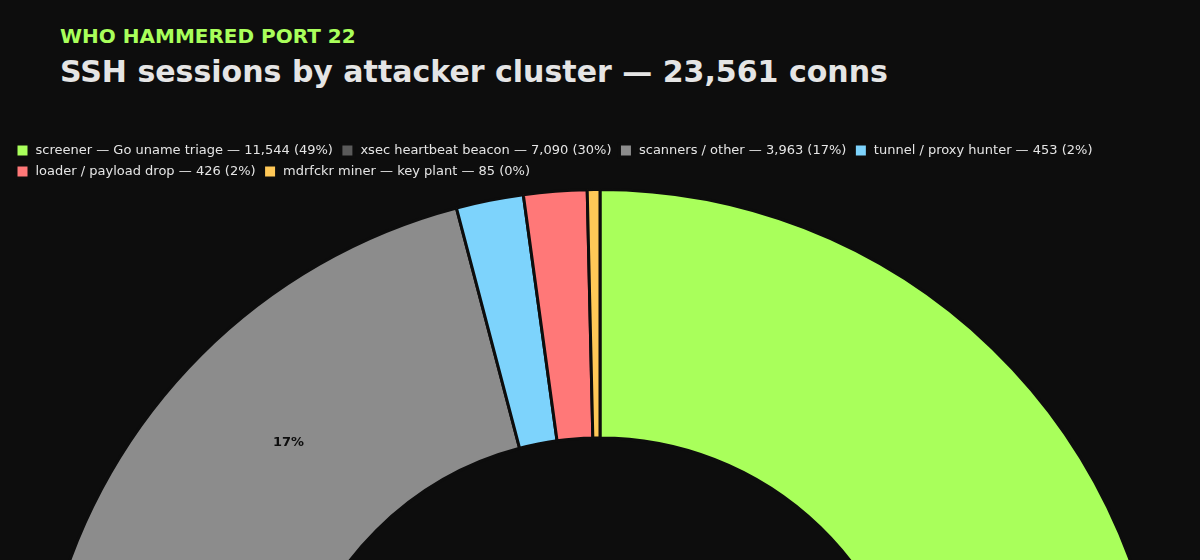
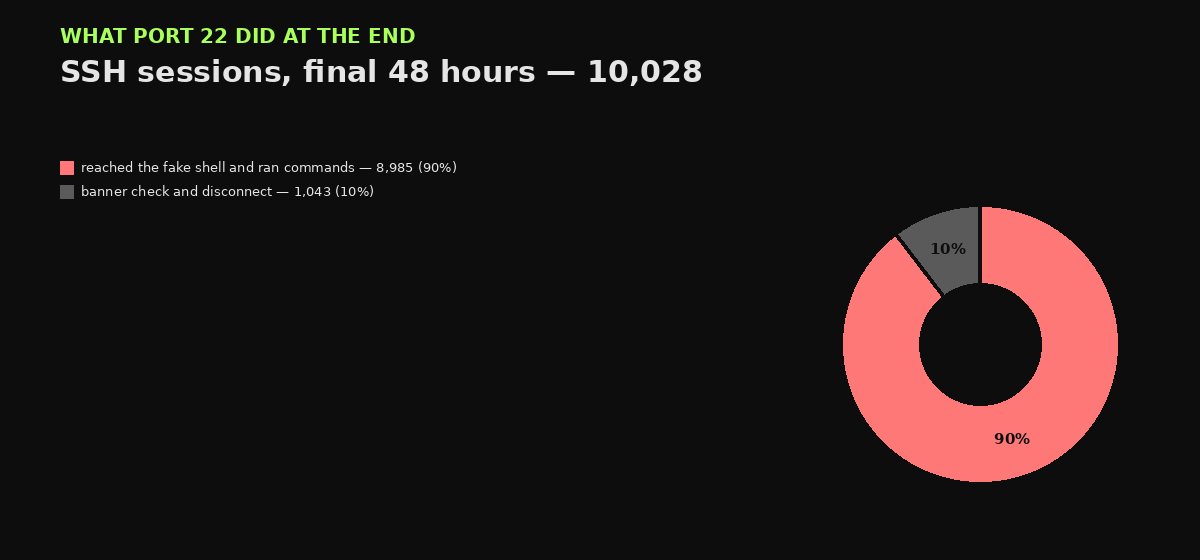
honeypot draft: refresh to the closed run (Sep 7-13) + regenerate charts
- Final numbers: 51,561 web req / 805 IPs, 29,481 SSH conns, 1,720 WP login
  attempts, xmlrpc 35,758 (69% of web), 110 miner key-plants
- Add the closing findings: passive->active flip on :22 (8,985 of 10,028
  sessions ran commands in the last 48h), Go brute-force botnet, the
  multi-arch miner+worm family, the 82% collapse of the web wave
- Bait beat sharpened: 0/913 parsed attempts tried the contextual password,
  admin hit 10x in the whole run, closest miss 3 keystrokes short; add the
  wireframe frontier-model baseline (10 guesses, 0 correct)
- New 'What did not happen' verdict section + VirusTotal two-class finding
- chart2/3/4 regenerated from the closing cut (chart1 stays the 5-day
  mid-run timeline: extending it needs hourly logs that died with the box)
- Draft stays draft:true, unpushed to _posts, run 2 never named

diff --git a/assets/img/posts/chart3-web-classes.html b/assets/img/posts/chart3-web-classes.html
@@ -4,13 +4,13 @@
 <style>body{margin:0;background:#0d0d0d}canvas{display:block}</style></head>
 <body>
 <div style="height:128px;padding:24px 60px 0 60px;background:#0d0d0d;box-sizing:border-box">
-  <div style="color:#a9ff5b;font:700 20px 'DejaVu Sans'">WHAT THE WEB ATTACKERS DID</div>
-  <div style="color:#e5e5e5;font:700 30px 'DejaVu Sans';margin-top:6px">Requests by target — 45,023 total</div>
+  <div style="color:#a9ff5b;font:700 20px 'DejaVu Sans'">WHAT THE WEB ATTACKERS WANTED</div>
+  <div style="color:#e5e5e5;font:700 30px 'DejaVu Sans';margin-top:6px">Requests by target — 51,561 total</div>
 </div>
 <canvas id="c" width="1200" height="432"></canvas><script>
 Chart.defaults.font.family = 'DejaVu Sans';
 Chart.defaults.color = '#8c8c8c';
 Chart.register(ChartDataLabels);
-const cfg = {type:'doughnut',data:{labels:["XML-RPC (automation endpoint) \u2014 32,826 (73%)", "storefront pages + assets \u2014 6,448 (14%)", "other / misc \u2014 3,559 (8%)", "wp-login (admin login) \u2014 1,482 (3%)", "wp-admin (dashboard) \u2014 391 (1%)", "REST API \u2014 255 (1%)", "author enumeration \u2014 62 (0%)"],datasets:[{data:[32826, 6448, 3559, 1482, 391, 255, 62],backgroundColor:["#ffc857", "#a9ff5b", "#8c8c8c", "#ff7878", "#7dd3fc", "#5a5a5a", "#b388ff"],borderColor:'#0d0d0d',borderWidth:3,hoverOffset:6}]},options:{cutout:'56%',layout:{padding:{top:8,right:8,bottom:8,left:8}},plugins:{legend:{position:'top',align:'start',labels:{boxWidth:13,padding:8,font:{size:13},color:'#e5e5e5'}},datalabels:{color:'#0d0d0d',font:{size:13,weight:'bold'},formatter:function(v,ctx){const t=ctx.chart.data.datasets[0].data.reduce((a,b)=>a+b,0);const p=v/t*100;return p>=6?p.toFixed(0)+'%':'';}}}}};
+const cfg = {type:'doughnut',data:{labels:["XML-RPC (automation endpoint) \u2014 35,758 (69%)", "everything else: storefront, login, admin, API \u2014 15,803 (31%)"],datasets:[{data:[35758, 15803],backgroundColor:["#ffc857", "#8c8c8c"],borderColor:'#0d0d0d',borderWidth:3,hoverOffset:6}]},options:{cutout:'56%',layout:{padding:{top:8,right:8,bottom:8,left:8}},plugins:{legend:{position:'top',align:'start',labels:{boxWidth:13,padding:8,font:{size:13},color:'#e5e5e5'}},datalabels:{color:'#0d0d0d',font:{size:15,weight:'bold'},formatter:function(v,ctx){const t=ctx.chart.data.datasets[0].data.reduce((a,b)=>a+b,0);const p=v/t*100;return p>=6?p.toFixed(0)+'%':'';}}}}};
 new Chart(document.getElementById('c'), cfg);
 </script></body></html>

diff --git a/assets/img/posts/chart2-ssh-clusters.html b/assets/img/posts/chart2-ssh-clusters.html
@@ -4,13 +4,13 @@
 <style>body{margin:0;background:#0d0d0d}canvas{display:block}</style></head>
 <body>
 <div style="height:128px;padding:24px 60px 0 60px;background:#0d0d0d;box-sizing:border-box">
-  <div style="color:#a9ff5b;font:700 20px 'DejaVu Sans'">WHO HAMMERED PORT 22</div>
-  <div style="color:#e5e5e5;font:700 30px 'DejaVu Sans';margin-top:6px">SSH sessions by attacker cluster — 23,561 conns</div>
+  <div style="color:#a9ff5b;font:700 20px 'DejaVu Sans'">WHAT PORT 22 DID AT THE END</div>
+  <div style="color:#e5e5e5;font:700 30px 'DejaVu Sans';margin-top:6px">SSH sessions, final 48 hours — 10,028</div>
 </div>
 <canvas id="c" width="1200" height="432"></canvas><script>
 Chart.defaults.font.family = 'DejaVu Sans';
 Chart.defaults.color = '#8c8c8c';
 Chart.register(ChartDataLabels);
-const cfg = {type:'doughnut',data:{labels:["screener \u2014 Go uname triage \u2014 11,544 (49%)", "xsec heartbeat beacon \u2014 7,090 (30%)", "scanners / other \u2014 3,963 (17%)", "tunnel / proxy hunter \u2014 453 (2%)", "loader / payload drop \u2014 426 (2%)", "mdrfckr miner \u2014 key plant \u2014 85 (0%)"],datasets:[{data:[11544, 7090, 3963, 453, 426, 85],backgroundColor:["#a9ff5b", "#5a5a5a", "#8c8c8c", "#7dd3fc", "#ff7878", "#ffc857"],borderColor:'#0d0d0d',borderWidth:3,hoverOffset:6}]},options:{cutout:'56%',layout:{padding:{top:8,right:8,bottom:8,left:8}},plugins:{legend:{position:'top',align:'start',labels:{boxWidth:13,padding:8,font:{size:13},color:'#e5e5e5'}},datalabels:{color:'#0d0d0d',font:{size:13,weight:'bold'},formatter:function(v,ctx){const t=ctx.chart.data.datasets[0].data.reduce((a,b)=>a+b,0);const p=v/t*100;return p>=6?p.toFixed(0)+'%':'';}}}}};
+const cfg = {type:'doughnut',data:{labels:["reached the fake shell and ran commands \u2014 8,985 (90%)", "banner check and disconnect \u2014 1,043 (10%)"],datasets:[{data:[8985, 1043],backgroundColor:["#ff7878", "#5a5a5a"],borderColor:'#0d0d0d',borderWidth:3,hoverOffset:6}]},options:{cutout:'56%',layout:{padding:{top:8,right:8,bottom:8,left:8}},plugins:{legend:{position:'top',align:'start',labels:{boxWidth:13,padding:8,font:{size:13},color:'#e5e5e5'}},datalabels:{color:'#0d0d0d',font:{size:15,weight:'bold'},formatter:function(v,ctx){const t=ctx.chart.data.datasets[0].data.reduce((a,b)=>a+b,0);const p=v/t*100;return p>=6?p.toFixed(0)+'%':'';}}}}};
 new Chart(document.getElementById('c'), cfg);
 </script></body></html>

diff --git a/assets/img/posts/chart4-usernames.html b/assets/img/posts/chart4-usernames.html
@@ -4,13 +4,13 @@
 <style>body{margin:0;background:#0d0d0d}canvas{display:block}</style></head>
 <body>
 <div style="height:128px;padding:24px 60px 0 60px;background:#0d0d0d;box-sizing:border-box">
-  <div style="color:#a9ff5b;font:700 20px 'DejaVu Sans'">THE USERNAMES THEY GUESSED</div>
-  <div style="color:#e5e5e5;font:700 30px 'DejaVu Sans';margin-top:6px">Top logins tried on SSH</div>
+  <div style="color:#a9ff5b;font:700 20px 'DejaVu Sans'">THE BAIT NOBODY GUESSED</div>
+  <div style="color:#e5e5e5;font:700 30px 'DejaVu Sans';margin-top:6px">Login attempts at close — 913 pairs, 0 hits</div>
 </div>
 <canvas id="c" width="1200" height="432"></canvas><script>
 Chart.defaults.font.family = 'DejaVu Sans';
 Chart.defaults.color = '#8c8c8c';
 Chart.register(ChartDataLabels);
-const cfg = {type:'doughnut',data:{labels:["root \u2014 12,066 (57%)", "ubuntu \u2014 1,655 (8%)", "admin \u2014 1,035 (5%)", "postgres \u2014 281 (1%)", "barsha \u2014 251 (1%)", "all other usernames \u2014 5,942 (28%)"],datasets:[{data:[12066, 1655, 1035, 281, 251, 5942],backgroundColor:["#ff7878", "#ffc857", "#7dd3fc", "#b388ff", "#a9ff5b", "#8c8c8c"],borderColor:'#0d0d0d',borderWidth:3,hoverOffset:6}]},options:{cutout:'56%',layout:{padding:{top:8,right:8,bottom:8,left:8}},plugins:{legend:{position:'top',align:'start',labels:{boxWidth:13,padding:8,font:{size:13},color:'#e5e5e5'}},datalabels:{color:'#0d0d0d',font:{size:13,weight:'bold'},formatter:function(v,ctx){const t=ctx.chart.data.datasets[0].data.reduce((a,b)=>a+b,0);const p=v/t*100;return p>=5?p.toFixed(0)+'%':'';}}}}};
+const cfg = {type:'doughnut',data:{labels:["brand / name / year family \u2014 543 (59%)", "everything else \u2014 370 (41%)"],datasets:[{data:[543, 370],backgroundColor:["#a9ff5b", "#8c8c8c"],borderColor:'#0d0d0d',borderWidth:3,hoverOffset:6}]},options:{cutout:'56%',layout:{padding:{top:8,right:8,bottom:8,left:8}},plugins:{legend:{position:'top',align:'start',labels:{boxWidth:13,padding:8,font:{size:13},color:'#e5e5e5'}},datalabels:{color:'#0d0d0d',font:{size:15,weight:'bold'},formatter:function(v,ctx){const t=ctx.chart.data.datasets[0].data.reduce((a,b)=>a+b,0);const p=v/t*100;return p>=6?p.toFixed(0)+'%':'';}}}}};
 new Chart(document.getElementById('c'), cfg);
 </script></body></html>

diff --git a/_drafts/2026-09-06-decoy-boutique.md b/_drafts/2026-09-06-decoy-boutique.md
@@ -7,13 +7,13 @@ description: "Building a fake WordPress boutique to test a simple bet: bots atta
 draft: true
 ---
 
-<!-- DRAFT-ONLY NOTES (delete before publish): publish AFTER the run completes. Never name the live lure host/IP/domain while the experiment runs — refer to it generically ("a fresh boutique domain"). Project post: publish + banner only (no audio, no LinkedIn). NUMBERS CURRENT AS OF 2026-09-11 (Day 5 of the run); the final write-up replaces every count below with the full-run totals. -->
+<!-- DRAFT-ONLY NOTES (delete before publish): the run is CLOSED — Sep 7 → Sep 13, 2026, seven days. Every number below is the closing cut (taken Sep 12, 15:53 UTC, the last report before the box was snapshotted); chart 1 is the one exception and stays a mid-run snapshot of the first five days, because extending it needs hourly logs that died with the box. Never name the host/IP/domain of a *live* lure — Run 2 is still running. Project post: publish + banner only (no audio, no LinkedIn). -->
 
 > **TL;DR**
 > - The bet: opportunistic attack bots are blind to who the target is. They attack services, not storefronts — a fake boutique domain should get the same pre-auth traffic as any public IP.
 > - The archetype: the believable 2026 victim runs a current WordPress core with neglected plugins and a weak admin password. Not a 2019 core. The guides are wrong.
 > - What I built: a decoy home-textiles store (real WordPress, real WooCommerce, ten products) on a disposable droplet, wrapped in watchers, with one deliberate weak point as the bait.
-> - Honest expectation: a month of data, probably zero "smart" attackers, and that null result is itself the finding.
+> - The result after seven days: 51,561 web requests and 29,481 SSH connections from 805 addresses, zero successful compromises, zero attackers who read the store, and the guessable admin password never guessed.
 
 ## Eleven thousand holes, six in the core
 
@@ -55,26 +55,32 @@ The storefront is the bait; it is not the honeypot. The honeypot is the environm
 - Outbound connections are blocked — an attacker who gets in can attempt downloads and persistence, and every attempt is recorded, but the box cannot be used to attack anyone else.
 - Evidence ships off the box daily. The box is disposable; the data is not.
 
-<!-- DRAFT NOTE (Gabriel, 2026-09-07): charts in the next section are native mermaid pies (theme-rendered, no CDN — Chirpy renders ```mermaid blocks automatically). A full interactive Chart.js version of the same data exists alongside (sources: assets/img/posts/chart1..4 .png + .html, CDN refs, validated in headless Chromium 2026-09-11). BEFORE publishing, compare mermaid vs Chart.js rendering on the live post and pick the final one; that choice also affects the LinkedIn card if we screenshot a ChartJS chart. Numbers refreshed 2026-09-11 (Day 5); the final run replaces them at publish. -->
+<!-- DRAFT NOTE (Gabriel, 2026-09-07): charts in the next section are native mermaid pies (theme-rendered, no CDN — Chirpy renders ```mermaid blocks automatically). A full interactive Chart.js version of the same data exists alongside (sources: assets/img/posts/chart1..4 .png + .html, CDN refs). BEFORE publishing, compare mermaid vs Chart.js rendering on the live post and pick the final one; that choice also affects the LinkedIn card if we screenshot a ChartJS chart. Status: chart1 = hourly timeline, mid-run cut (first five days) — that image could not be extended to the finish, the closing logs died with the box. chart2/3/4 = regenerated from the closing numbers (Sep 13 cut). -->
 
 ## The cast
 
-Somewhere in the noise, faces appear. Not because anyone targeted the shop — nobody did — but because the machines attacking it carry habits, and after five days the habits sort into characters.
+Somewhere in the noise, faces appear. Not because anyone targeted the shop — nobody did — but because the machines attacking it carry habits, and over seven days the habits sort into characters.
 
 - **The Screener.** Runs one command — `uname`, the Linux equivalent of "what are you?" — against every host it can reach, then leaves. 11,544 of the connections on port 22 were this machine taking inventory. It is the census taker of the internet.
 - **The Beacon.** Logs in and types `echo xsec` — a heartbeat, checking that the shell works and phoning home. 7,090 visits. It never looked at the shop.
-- **The Miner.** The most interesting one, because it is a real, documented criminal operation. It plants an SSH key so it can come back, and leaves a CPU check behind. Its key has not changed since 2018. Eight years, same trick, no arrests.
-- **The Tunnel Hunters.** They want neither data nor money. They want the box as a relay — a hop that hides where their traffic really comes from. That is how an innocent server becomes an accessory.
+- **The Miner.** The most interesting one, because it is a real, documented criminal operation. It plants an SSH key so it can come back, and leaves a CPU check behind. Its key has not changed since 2018. Eight years, same trick, no arrests. By the end it had planted that key 110 times.
+- **The Tunnel Hunters.** They want neither data nor money. They want the box as a relay — a hop that hides where their traffic really comes from. Seven separate attempts to open a tunnel to the same outside address. That is how an innocent server becomes an accessory.
 - **The XML-RPC Flood.** Wave after wave against WordPress's automation endpoint, each burst from a freshly rented server, gone before the invoice arrives.
-- **The Login Stuffer.** Drips usernames against the login page for hours, rotating browsers to look human, sitting behind a proxy so the real origin never shows. It tried over a thousand times and never read a single product page.
+- **The Login Stuffer.** Drips usernames against the login page for hours, rotating browsers to look human, sitting behind a proxy so the real origin never shows. One of them posted 81 username-and-password pairs lifted from a real breach — a Thai gambling site's leak, pointed at a home-textiles store in Oregon. It never read a single product page.
 - **The Backdoor Artist.** The only one with craft: it checks whether the shell it landed in is real before installing a fake one of its own. On a real host that would matter. Here, it verified a shell that does not exist.
 - **The Shopper.** The one I cannot fully explain. It browsed the catalog like a customer — products, cart, checkout, even "forgot my password." Every other visitor hammered the plumbing; this one behaved like it wanted to buy something. Best guess: an automated agent pacing itself like a human. I cannot prove it yet. It is the closest anything came to noticing what the shop was for.
+
+And one that is not a character but a change in the weather. For the first four days port 22 was passive: scan, run `uname`, hang up. In the closing 48 hours that reversed — 8,985 of 10,028 sessions stayed long enough to type commands, a new brute-force botnet arrived with sixteen addresses out of one subnet, and a multi-architecture malware family started uploading itself in five builds at once. The targets never changed; only how hard they pushed.
+
+![SSH sessions, final 48 hours — 8,985 of 10,028 reached the fake shell and ran commands](/assets/img/posts/chart2-ssh-clusters.png)
+
+*The mix flipped at the end: for the first four days most of port 22 was inventory-taking; in the closing 48 hours nine in ten sessions stayed to run commands.*
 
 Nobody read the store. Every credential tried against the login was built from the domain name or lifted from a leaked list — never from the boutique's own story. The interesting tail stayed empty.
 
 ## The noise, in numbers
 
-Five days in, the commodity noise has a shape: 23,561 SSH connections and 45,023 web requests from 711 IPs. Mid-run preview numbers — the full run replaces them at publish.
+Seven days in, the commodity noise has a shape: **51,561 web requests and 29,481 SSH connections from 805 addresses.** The volume arrived in waves, not a tide — a launch burst, botnet sweeps, a credential-stuffing run that never quite stopped, and then, before the end, the wave simply died: the web flood fell from 12,896 requests in a day to 2,222, an 82% collapse, with no change on my side.
 
 The SSH noise was not a crowd — it was clusters with different goals, from mass host-triage to a miner planting its persistence key:
 
@@ -89,40 +95,47 @@ pie showData
     "mdrfckr miner — key plant" : 85
 ```
 
-*The screener triages every host it finds; the miner's key has been unchanged since 2018.*
-
-The volume arrived in waves, not as a tide — a launch burst, botnet sweeps, then a credential-stuffing run that never quite stopped:
+*The screener triages every host it finds; the miner's key has been unchanged since 2018. Cut at day five — the closing cluster split died with the box.*
 
 ![Web and SSH traffic, hour by hour (UTC) — first five days](/assets/img/posts/chart1-volume-timeline.png)
 
-*Static render of the first five days (double axis: web left, SSH right) — mermaid has no time-series charts, so the timeline stays as an image (a Chart.js interactive version exists if we want it live).*
+*Static render of the first five days (double axis: web left, SSH right) — mermaid has no time-series charts, so the timeline stays as an image. This is the one chart that could not be extended to the finish: it needs hour-by-hour logs, and the box's were destroyed with the box.*
 
-Most of those web requests were not for the store at all. Break them down by target and the picture is lopsided in a way that makes the bet look very safe:
+Most of those web requests were not for the store at all. Break them down and the picture is lopsided in a way that makes the bet look very safe:
 
 ```mermaid
 pie showData
-    title Web requests by target — first five days
-    "XML-RPC (automation endpoint)" : 32826
-    "storefront pages + assets" : 6448
-    "other / misc" : 3559
-    "wp-login (admin login)" : 1482
-    "wp-admin (dashboard)" : 391
-    "REST API" : 255
-    "author enumeration" : 62
+    title Web requests by target — full run
+    "XML-RPC (automation endpoint)" : 35758
+    "everything else: storefront, login, admin, API" : 15803
 ```
 
-Nearly three-quarters of everything that hit the box went to XML-RPC — the automation endpoint WordPress exposes for tooling and pingbacks. Not the catalog, not the products, not the boutique. The admin login, the dashboard, and the API took most of the rest. The part of the box that looks like a shop drew around one in seven requests.
+![Requests by target — 51,561 total](/assets/img/posts/chart3-web-classes.png)
 
-## Five days in
+*Nearly seven in ten of everything that hit the box went to XML-RPC — the automation endpoint WordPress exposes for tooling and pingbacks. Not the catalog, not the products, not the boutique. Through the first five days — the last cut where the classes were counted separately — around one request in seven touched the part of the site that looks like a shop.*
 
-The run is live — day five. The commodity noise arrived on schedule: waves of SSH triage, XML-RPC floods from infrastructure that rotates every pass, login stuffing that pauses and resumes like a tide. The machines change; the tricks do not.
+## Seven days in
 
-And the interesting tail? Still no datapoint. Over thirteen hundred credentials have been tried against the login. The most-tried username is the one WordPress leaks by default (1,057 attempts); the owner's name follows (195). The account I deliberately made guessable — a plain `admin` with a password derived from the store's own About page — was tried **ten times in five days, and never with the right password.** The closest anyone got was the right idea, the wrong casing: a password in the brand-and-year family, lowercase, no `!`. Three keystrokes short.
+The run is closed. The noise arrived on schedule: SSH triage in waves, XML-RPC floods from infrastructure that rotates every pass, login stuffing that pauses and resumes like a tide. The machines change; the tricks do not.
 
-The honest expectation is holding: a month of data, probably zero "smart" attackers. That null result is the finding.
+And the interesting tail? Still no datapoint. 1,720 credentials were tried against the login, and the most-tried username is the one WordPress leaks by default. The account I deliberately made guessable — a plain `admin`, password derived from the store's own About page — drew **ten attempts in seven days, none of them correct.** Across 913 parsed attempts nobody tried the password the store's own story hints at; the closest was the brand-and-year family in lowercase with no `!`, three keystrokes short. The owner's name got 195 attempts and a walk up the years that stopped at 2018 — never the year the store was founded.
 
-## Built, and running
+As a sanity check on the "an AI agent would crack this" argument I ran the reverse experiment: a frontier model, told the username and handed the store's own content, guessed ten passwords and got zero — on the bait account and the owner's both. Its third guess was the brand and the right year, one capital letter and one `!` away. The model was not smarter than the bots; it was closer to the shape of the answer.
 
-Everything on the launch checklist is done — the fake customers sit in the database, the fake SSH shell answers on port 22, outbound traffic is blocked and logged, and the store lives on its proper boutique domain. What remains is the slowest step: the rest of the run, then the writeup with the full numbers.
+Seven days, zero "smart" attackers. That null result is the finding.
 
-*Draft note: THE single honeypot post — one start-to-finish story. NON-technical (keep MySQL/PHP-FPM/Caddy/Falco/auditd internals OUT unless Gabriel changes his mind). The pre-registered protocol + hypotheses + metrics live in the honeypot-ops skill (`references/honeypot-protocol.md`), not in this post. Hold until the run completes.*
+## What did not happen
+
+- Nobody read the store. No attacker touched the catalog as content — they hit the login, the admin path, and the API, which are identical on every WordPress site on earth.
+- Nobody reached the bait. The 46 fake orders and 20 fake customers sat untouched, and the deepest actor ended in a shell that does not exist, holding a key to nothing.
+- No AI-era signals: no agentic session, credential, or payload. What arrived was traditional and decades old in technique — with two exceptions worth naming, because they were real criminal operations. One campaign pulled a script from a server VirusTotal already flags; another uploaded a five-architecture miner-and-worm family that masquerades as the SSH daemon.
+
+One side finding, from running the attacker addresses past VirusTotal: the two populations split cleanly. SSH botnets are dirty — 7 of 8 addresses flagged — while the web-campaign infrastructure is freshly rented and clean. VirusTotal will flag the next SSH wave and shrug at the next XML-RPC one.
+
+## Closed, and running
+
+Everything on the launch checklist ran for the full week: fake customers in the database, the fake SSH shell answering on port 22, outbound traffic blocked and logged, the store live on its proper boutique domain. At the end I kept a full image of the box and destroyed the droplet — the data outlives the decoy, as designed.
+
+Seven days, 805 addresses, zero targeted attackers. The bet holds. Nobody attacked the boutique — they attacked WordPress, and a boutique was standing there.
+
+*Draft note: THE single honeypot post — one start-to-finish story. NON-technical (keep MySQL/PHP-FPM/Caddy/Falco/auditd internals OUT unless Gabriel changes his mind). The pre-registered protocol + hypotheses + metrics live in the honeypot-ops skill, not in this post. Run 2 is already live and answers the two questions this run could not — whether anyone reads a lure's content to derive credentials, and whether the crawler/agent population finds it. No dates promised here; a second post is a decision, not an obligation.*
